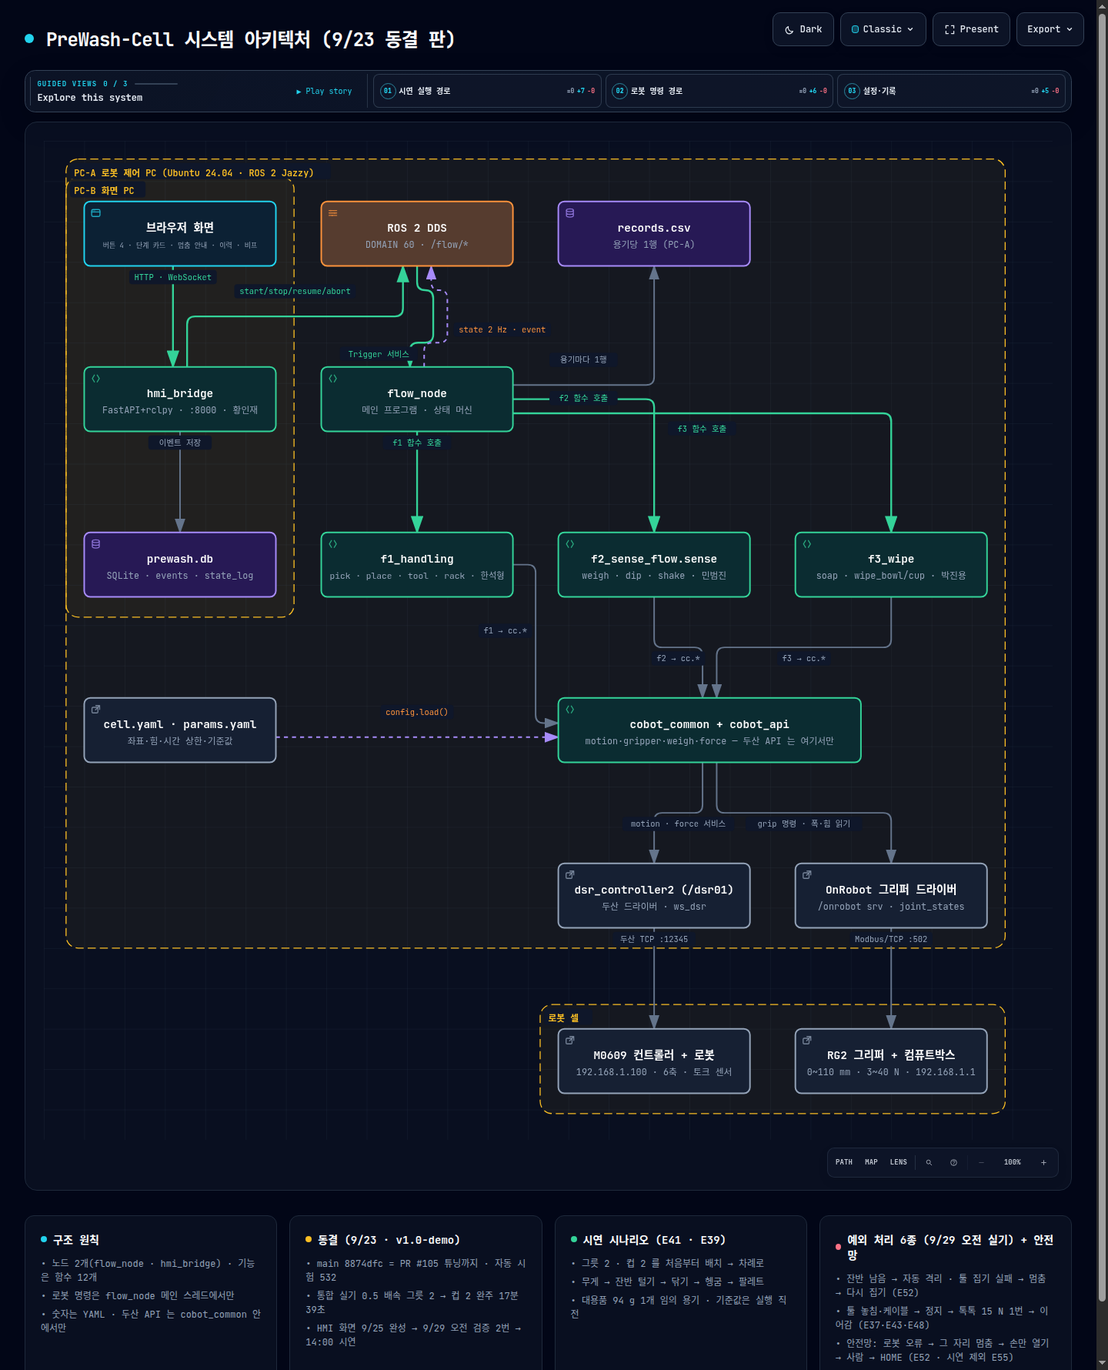
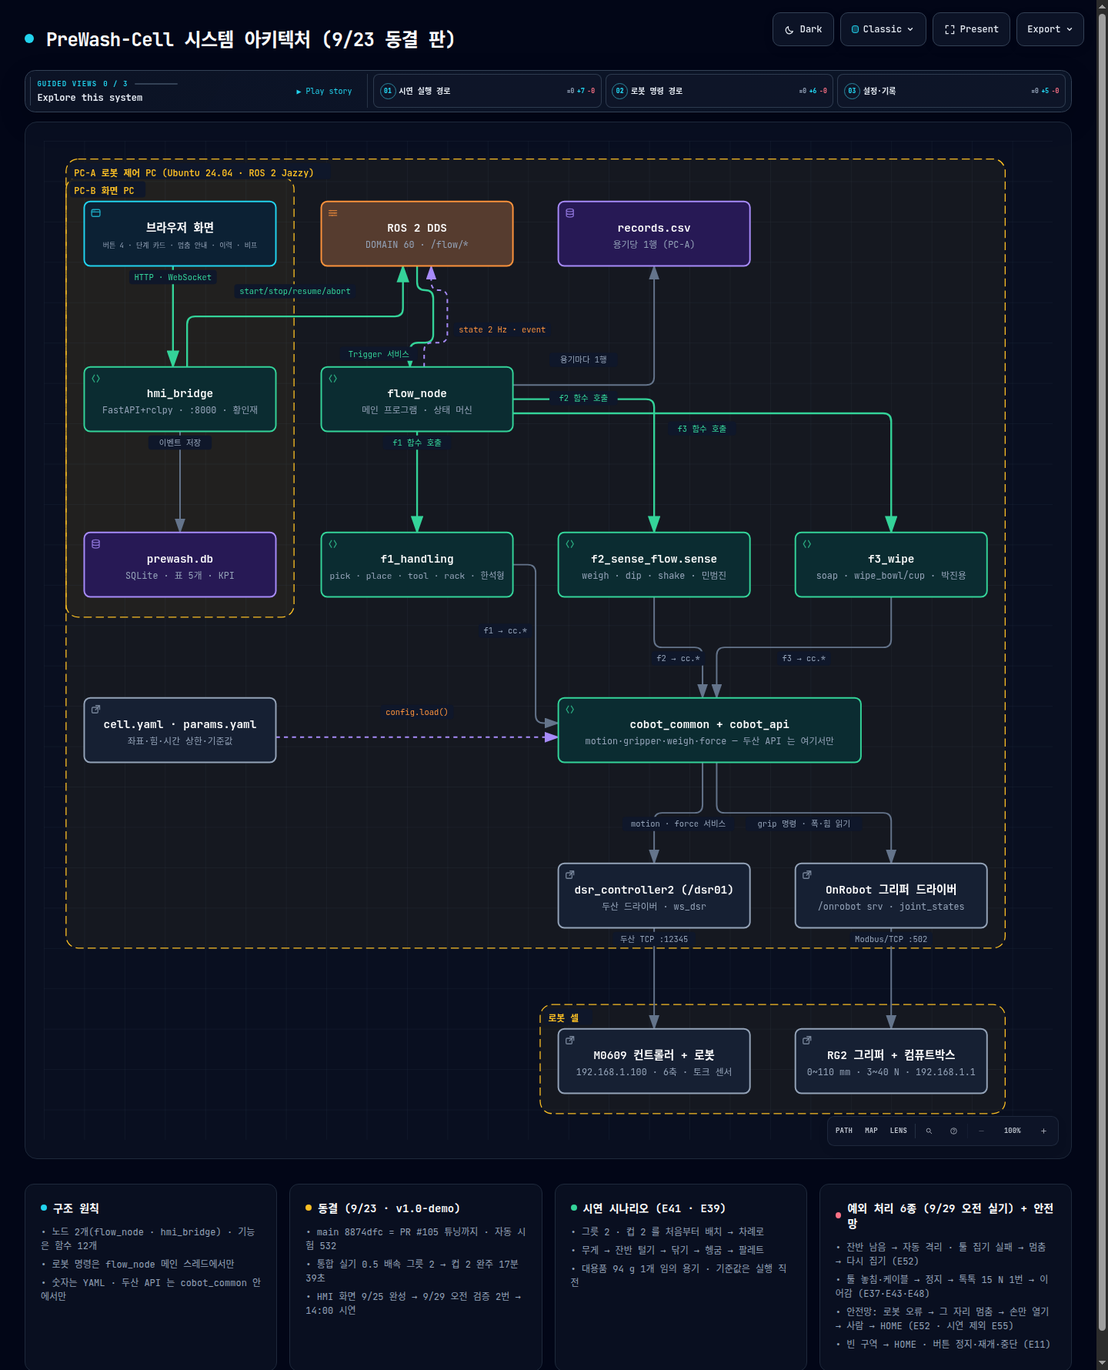
docs: E57(황인재 9/27) — F4-04 기록 DB(표 5개) · F4-05 누적 KPI · 잔반통 한도 50 kg 구현 반영 · SDD §3/§5/§6 · 결과표 AC-7 · 아키텍처 db 노드 · 일정표 v25.5

diff --git a/docs/images/system_architecture_pc.html b/docs/images/system_architecture_pc.html
@@ -5207,8 +5207,8 @@ OTHER DEALINGS IN THE FONT SOFTWARE.
         <text data-detail="context" x="135" y="270" class="t-muted" font-size="9" text-anchor="middle">FastAPI+rclpy · :8000 · 황인재</text>
         </g>
 
-        <g id="node-db" data-node-id="db" data-node-label="prewash.db" tabindex="0" role="button" aria-label="Focus prewash.db, SQLite · events · state_log, PC-B 화면 PC" aria-pressed="false" data-node-kind="database" data-node-sublabel="SQLite · events · state_log" data-node-context="PC-B 화면 PC">
-          <title>prewash.db · SQLite · events · state_log · PC-B 화면 PC</title>
+        <g id="node-db" data-node-id="db" data-node-label="prewash.db" tabindex="0" role="button" aria-label="Focus prewash.db, SQLite · 표 5개 · KPI, PC-B 화면 PC" aria-pressed="false" data-node-kind="database" data-node-sublabel="SQLite · 표 5개 · KPI" data-node-context="PC-B 화면 PC">
+          <title>prewash.db · SQLite · 표 5개 · KPI · PC-B 화면 PC</title>
           <rect x="40" y="388" width="190" height="64" rx="6" class="c-mask"/>
           <rect x="40" y="388" width="190" height="64" rx="6" class="c-database" stroke-width="1.5"/>
           <g aria-hidden="true" data-semantic-sigil="database" class="semantic-sigil s-database" transform="translate(46 394) scale(0.6875)">
@@ -5216,7 +5216,7 @@ OTHER DEALINGS IN THE FONT SOFTWARE.
             <path d="M3 4v8c0 1.1 2.2 2 5 2s5-.9 5-2V4M3 8c0 1.1 2.2 2 5 2s5-.9 5-2"/>
           </g>
           <text data-node-label="" data-detail-anchor="" x="135" y="418" class="t-primary" font-size="11" font-weight="600" text-anchor="middle">prewash.db</text>
-        <text data-detail="context" x="135" y="434" class="t-muted" font-size="9" text-anchor="middle">SQLite · events · state_log</text>
+        <text data-detail="context" x="135" y="434" class="t-muted" font-size="9" text-anchor="middle">SQLite · 표 5개 · KPI</text>
         </g>
 
         <g id="node-dds" data-node-id="dds" data-node-label="ROS 2 DDS" tabindex="0" role="button" aria-label="Focus ROS 2 DDS, DOMAIN 60 · /flow/*, Architecture component" aria-pressed="false" data-node-kind="messagebus" data-node-sublabel="DOMAIN 60 · /flow/*" data-node-context="Architecture component">

diff --git a/tools/gen/patch_20260919_weekend.py b/tools/gen/patch_20260919_weekend.py
@@ -13,7 +13,7 @@ from livesheet import SID, load, timeline
 import gen_todo
 
 ID = 'AH'
-VERSION = 'v25.4'
+VERSION = 'v25.5'
 OUT = 'prewash_일정표_0919s.xlsx'
 def S(*xs): return [tuple(x.split()) for x in xs]          # S('9/20 오전','9/20 오후')
 
@@ -3209,6 +3209,17 @@ EDIT.update({
 HISTORY203 = ['v25.4', '✅ 결정', 'INT-4b', '황인재 9/27 저녁: 헹굼 담금 동작 그대로 · flow 세제 카운터 용기당 1회(E56 마무리) — 화요일 전 열린 결정 없음', '황인재 9/27 저녁', 'H']
 
 
+
+# ---------------------------------------------------------------- 09/27 17:0x 황인재(F4 창 "진행"): E57 F4-04 기록 DB · F4-05 누적 KPI · 잔반통 한도 구현 완료(가짜 검증)
+H0927e = '황인재 9/27(F4 창) · PM 17:0x'
+EDIT.update({
+ 'F4-04':    dict(status='완료', prog='0.9', note_add=H0927e + ': ✅ **E57** SQLite 표 5개(events · runs · pauses · commands · replacements · 브리지를 켠 폴더 prewash.db) · 소모품 사용량 = 마지막 교체 뒤 · CLI hmi_db · 가짜 검증(TC-11 15 · 8001 검증 서버) · pytest f4 42 · node 10 · HMI 브랜치 e9ecb81·b0680a4(PR "열어" 뒤) · 🟡 실제 flow 기록은 9/29'),
+ 'F4-05':    dict(status='완료', prog='0.9', note_add=H0927e + ': ✅ **E57** 누적 KPI 칸(이번 실행/오늘/전체 · 처리량 · 처리율 · 용기당 평균 · 시간당 · 멈춤 · 잔반) · 가짜 검증 ✅ · 🟡 실제 수치는 9/29'),
+ 'INT-4':    dict(note_add=H0927e + ': E57 잔반통 한도 50 kg(hmi.waste_bin_limit_g) → 브리지 /flow/stop → "잔반통 교체" 카드 → 교체 완료 버튼 → 재개(로봇 코드 무변경 · 시연 중 한도 안 닿음) · 소모품 4줄 + 교체 완료 버튼 · 8000 서버는 껐다 켜야 새 코드'),
+})
+HISTORY204 = ['v25.5', '✅ 완료', 'F4-04, F4-05, INT-4', '황인재 9/27(F4 창): E57 — 기록 DB(표 5개) · 누적 KPI · 잔반통 한도 50 kg 구현(F4 · 가짜 검증 ✅ · 실제 flow 기록 9/29 · PR 대기)', '황인재 9/27', 'H']
+
+
 def main(out):
     gen_todo.EASY.update(EASY)
     for _t in DELETE: EDIT.pop(_t, None); MOVE.pop(_t, None)
@@ -3309,7 +3320,7 @@ def main(out):
             ru.rows[k] = n
     # 7) 변경이력
     h = b.sheet('변경이력')
-    for hist in (HISTORY, HISTORY2, HISTORY3, HISTORY4, HISTORY5, HISTORY6, HISTORY7, HISTORY8, HISTORY9, HISTORY10, HISTORY11, HISTORY12, HISTORY13, HISTORY14, HISTORY15, HISTORY16, HISTORY17, HISTORY18, HISTORY19, HISTORY20, HISTORY21, HISTORY22, HISTORY23, HISTORY24, HISTORY25, HISTORY26, HISTORY27, HISTORY28, HISTORY29, HISTORY30, HISTORY31, HISTORY32, HISTORY33, HISTORY34, HISTORY35, HISTORY36, HISTORY37, HISTORY38, HISTORY39, HISTORY40, HISTORY41, HISTORY42, HISTORY43, HISTORY44, HISTORY45, HISTORY46, HISTORY47, HISTORY48, HISTORY49, HISTORY50, HISTORY51, HISTORY52, HISTORY53, HISTORY54, HISTORY55, HISTORY56, HISTORY57, HISTORY58, HISTORY59, HISTORY60, HISTORY61, HISTORY62, HISTORY63, HISTORY64, HISTORY65, HISTORY66, HISTORY67, HISTORY68, HISTORY69, HISTORY70, HISTORY71, HISTORY72, HISTORY73, HISTORY74, HISTORY75, HISTORY76, HISTORY77, HISTORY78, HISTORY79, HISTORY80, HISTORY81, HISTORY82, HISTORY83, HISTORY84, HISTORY85, HISTORY86, HISTORY87, HISTORY88, HISTORY89, HISTORY90, HISTORY91, HISTORY92, HISTORY93, HISTORY94, HISTORY95, HISTORY96, HISTORY97, HISTORY98, HISTORY99, HISTORY100, HISTORY101, HISTORY102, HISTORY103, HISTORY104, HISTORY105, HISTORY106, HISTORY107, HISTORY108, HISTORY109, HISTORY110, HISTORY111, HISTORY112, HISTORY113, HISTORY114, HISTORY115, HISTORY116, HISTORY117, HISTORY118, HISTORY119, HISTORY120, HISTORY121, HISTORY122, HISTORY123, HISTORY124, HISTORY125, HISTORY126, HISTORY127, HISTORY128, HISTORY129, HISTORY130, HISTORY131, HISTORY132, HISTORY133, HISTORY134, HISTORY135, HISTORY136, HISTORY137, HISTORY138, HISTORY139, HISTORY140, HISTORY141, HISTORY142, HISTORY143, HISTORY144, HISTORY145, HISTORY146, HISTORY147, HISTORY148, HISTORY149, HISTORY150, HISTORY151, HISTORY152, HISTORY153, HISTORY154, HISTORY155, HISTORY156, HISTORY157, HISTORY158, HISTORY159, HISTORY160, HISTORY161, HISTORY162, HISTORY163, HISTORY164, HISTORY165, HISTORY166, HISTORY167, HISTORY168, HISTORY169, HISTORY170, HISTORY171, HISTORY172, HISTORY173, HISTORY174, HISTORY175, HISTORY176, HISTORY177, HISTORY178, HISTORY179, HISTORY180, HISTORY181, HISTORY182, HISTORY183, HISTORY184, HISTORY185, HISTORY186, HISTORY187, HISTORY188, HISTORY189, HISTORY190, HISTORY191, HISTORY192, HISTORY193, HISTORY194, HISTORY195, HISTORY196, HISTORY197, HISTORY198, HISTORY199, HISTORY200, HISTORY201, HISTORY202, HISTORY203):
+    for hist in (HISTORY, HISTORY2, HISTORY3, HISTORY4, HISTORY5, HISTORY6, HISTORY7, HISTORY8, HISTORY9, HISTORY10, HISTORY11, HISTORY12, HISTORY13, HISTORY14, HISTORY15, HISTORY16, HISTORY17, HISTORY18, HISTORY19, HISTORY20, HISTORY21, HISTORY22, HISTORY23, HISTORY24, HISTORY25, HISTORY26, HISTORY27, HISTORY28, HISTORY29, HISTORY30, HISTORY31, HISTORY32, HISTORY33, HISTORY34, HISTORY35, HISTORY36, HISTORY37, HISTORY38, HISTORY39, HISTORY40, HISTORY41, HISTORY42, HISTORY43, HISTORY44, HISTORY45, HISTORY46, HISTORY47, HISTORY48, HISTORY49, HISTORY50, HISTORY51, HISTORY52, HISTORY53, HISTORY54, HISTORY55, HISTORY56, HISTORY57, HISTORY58, HISTORY59, HISTORY60, HISTORY61, HISTORY62, HISTORY63, HISTORY64, HISTORY65, HISTORY66, HISTORY67, HISTORY68, HISTORY69, HISTORY70, HISTORY71, HISTORY72, HISTORY73, HISTORY74, HISTORY75, HISTORY76, HISTORY77, HISTORY78, HISTORY79, HISTORY80, HISTORY81, HISTORY82, HISTORY83, HISTORY84, HISTORY85, HISTORY86, HISTORY87, HISTORY88, HISTORY89, HISTORY90, HISTORY91, HISTORY92, HISTORY93, HISTORY94, HISTORY95, HISTORY96, HISTORY97, HISTORY98, HISTORY99, HISTORY100, HISTORY101, HISTORY102, HISTORY103, HISTORY104, HISTORY105, HISTORY106, HISTORY107, HISTORY108, HISTORY109, HISTORY110, HISTORY111, HISTORY112, HISTORY113, HISTORY114, HISTORY115, HISTORY116, HISTORY117, HISTORY118, HISTORY119, HISTORY120, HISTORY121, HISTORY122, HISTORY123, HISTORY124, HISTORY125, HISTORY126, HISTORY127, HISTORY128, HISTORY129, HISTORY130, HISTORY131, HISTORY132, HISTORY133, HISTORY134, HISTORY135, HISTORY136, HISTORY137, HISTORY138, HISTORY139, HISTORY140, HISTORY141, HISTORY142, HISTORY143, HISTORY144, HISTORY145, HISTORY146, HISTORY147, HISTORY148, HISTORY149, HISTORY150, HISTORY151, HISTORY152, HISTORY153, HISTORY154, HISTORY155, HISTORY156, HISTORY157, HISTORY158, HISTORY159, HISTORY160, HISTORY161, HISTORY162, HISTORY163, HISTORY164, HISTORY165, HISTORY166, HISTORY167, HISTORY168, HISTORY169, HISTORY170, HISTORY171, HISTORY172, HISTORY173, HISTORY174, HISTORY175, HISTORY176, HISTORY177, HISTORY178, HISTORY179, HISTORY180, HISTORY181, HISTORY182, HISTORY183, HISTORY184, HISTORY185, HISTORY186, HISTORY187, HISTORY188, HISTORY189, HISTORY190, HISTORY191, HISTORY192, HISTORY193, HISTORY194, HISTORY195, HISTORY196, HISTORY197, HISTORY198, HISTORY199, HISTORY200, HISTORY201, HISTORY202, HISTORY203, HISTORY204):
         if not has(h, 'A', hist[0]):
             k = h.first_empty(); n = h.rows[k - 1].clone()
             for c, v in zip('ABCDEF', hist): n.set(c, v)

diff --git a/docs/03_설계_SDD.md b/docs/03_설계_SDD.md
@@ -52,7 +52,7 @@ PC-A ↔ 컨트롤러는 두산 전용 TCP(DDS 아님). PC-A ↔ PC-B는 ROS 2 D
 | `/dsr01/joint_states` | `sensor_msgs/msg/JointState` | dsr_controller2 → 모니터링 | PC-A |
 | dsr_controller2 ↔ 컨트롤러 | 두산 전용 TCP, 포트 12345 | | PC-A ↔ 컨트롤러 |
 | 브라우저 ↔ hmi_bridge | HTTP `GET /` · `POST /api/start|stop|resume|abort` · `GET /api/state` · `GET /api/history` · WS `/ws/state` (JSON) | | PC-B 내부 또는 LAN |
-| hmi_bridge → prewash.db | SQLite `events`(FlowEvent 필드 그대로) · `state_log` | | PC-B 내부 |
+| hmi_bridge → prewash.db | SQLite 🔄 E57(9/27) 표 5개: `events`(용기 1줄 · 실행 번호 · 버린 잔반 g) · `runs` · `pauses`(원인 · 풀린 방법) · `commands` · `replacements`(소모품 교체) | | PC-B 내부 |
 
 `/dsr01/*`·`/onrobot/*`의 정확한 이름·필드는 [두산 ROS 2 매뉴얼(jazzy)](https://doosanrobotics.github.io/doosan-robotics-ros-manual/jazzy/services/motion_services.html)과 설치본으로 확인한다. 우리 코드는 `cobot_common`을 통해서만 부르므로 이름이 달라도 한 곳만 고친다.
 
@@ -242,7 +242,7 @@ sequenceDiagram
 ### 4.2 데이터 사전
 - 기능 함수·메시지: IRD §3~7 (정본 `src/cobot_api/cobot_api/contracts.py` · `docs/interfaces/*.msg`)
 - `records.csv`(PC-A) 열: `ts, kind, zone_id, attempts, rack_slot, weight_before_g, weight_after_g, leftover_rounds, seat_offset_mm, wipe_duration_s, force_log_path, result, code, duration_s`
-- `prewash.db`(PC-B, SQLite): 표 `events`(FlowEvent 필드 + `id`, `received_at`) · `state_log`(step, kind, zone_id, stamp, 1 Hz 샘플)
+- `prewash.db`(PC-B, SQLite · 브리지를 켠 폴더): 🔄 E57(9/27 · F4-04) 표 5개 — `events`(용기 1줄 · 실행 번호 · 버린 잔반 g) · `runs` · `pauses`(원인 · 풀린 방법) · `commands` · `replacements`. 소모품 사용량 = 마지막 교체 뒤 events. CLI `ros2 run f4_hmi hmi_db tables|dump|usage|kpi|replace`
 - 힘 로그 `force_YYYYMMDD_HHMMSS.csv`: `t, fx, fy, fz, target`
 
 ### 4.3 설정 파일 스키마 — `config/cell.yaml`(공용) + `config/params.yaml`(기능별 절)
@@ -305,7 +305,7 @@ flow:                                                               # ── flo
   consumables: {sponge_max_uses: 20, soap_max_dips: 60}
   use_mock: []                       # 가짜 모듈로 바꿀 기능. 예: [f1, f3] · 전부 mock 이면 드라이버 없이 돈다 (런치 인자 use_mock 이 덮어씀)
   mock: {fail_on: []}                # 실패 주입. 예: ["place:SEAT_FAIL", "rack_place:RACK_JAM"]
-hmi: {port: 8000, state_rate_hz: 2, disconnect_after_s: 2.0, db_path: prewash.db}   # ── hmi 절 (황인재) ──
+hmi: {port: 8000, state_rate_hz: 2, disconnect_after_s: 2.0, db_path: prewash.db, waste_bin_limit_g: 50000}   # ── hmi 절 (황인재) · E57 잔반통 한도 50 kg ──
 ```
 좌표·힘·횟수는 전부 여기에 둔다. 코드에 숫자를 쓰지 않는다. 경로는 항상 패키지 기준 상대경로.
 
@@ -444,7 +444,7 @@ return EMPTY_ZONE (attempts = 슬롯 수)
 
 ### 5.5 hmi_bridge (황인재) — 시스템 모니터
 - 구조: FastAPI(uvicorn) + rclpy 스레드. rclpy는 별도 스레드에서 `spin`, `/flow/*` 서비스 호출은 요청 스레드를 막지 않게 실행(HMI는 두산 API를 쓰지 않으므로 TS-01과 무관). WebSocket이 `/flow/state`·`/flow/event`를 브라우저에 밀어준다.
-- SQLite(`db.py`): `/flow/event` 수신마다 `events` INSERT, 1 Hz로 `state_log` INSERT. `GET /api/history`가 최근 N건 반환.
+- SQLite(`db.py`): `/flow/event` 수신마다 `events` INSERT · 실행 시작/끝 `runs` · 멈춤 `pauses`(원인 · 풀린 방법) · 버튼 `commands` · 교체 완료 `replacements`(🔄 E57 9/27). `GET /api/history`가 최근 N건 반환. **잔반통 한도**: 마지막 교체 뒤 버린 잔반 합 ≥ `hmi.waste_bin_limit_g`(50 kg) 이면 브리지가 `/flow/stop` → "잔반통 교체" 카드 → 교체 완료 버튼 → 재개(로봇 코드 무변경).
 - 화면 구성(강의 HMI 요소 반영):
   | 영역 | 내용 |
   |---|---|
@@ -475,7 +475,9 @@ return EMPTY_ZONE (attempts = 슬롯 수)
 | 이력 | 끝난 용기마다 한 줄(완료 · 격리 · 오류 · 건너뜀 · 원인 · 시도 수) · 문제만 보기 필터. 🟡 케이블 이상으로 중단한 용기는 이벤트 코드가 ROBOT_ERROR 라 '로봇 오류'로 적힘(사유를 이벤트에 실으려면 flow 변경 · 시연 뒤) |
 | 소리 | 넛지(톡톡) 재개 요청 감지 비프(#93) · 멈춤이 풀리면(PAUSED → 운전) 짧은 두 음 · 🟡 소리는 9/29 준비 때 귀로 확인 |
 | 로봇 없이 확인 | `hmi_bridge` + 가짜 flow `fake_state_pub`(대본 8종: normal · paused · isolate · error · empty_zone · 🆕 tool_lost · leftover_remain · cable — 9/29 예외 ③④① 화면 연습) 또는 ros bag 재생(`_bags/0923_full_0.5`) · 한 번에 하나만(같은 토픽) |
-| 미구현(시연 뒤) | F4-04 SQLite 이력 · F4-05 KPI · 격리 구역 비움 확인 버튼 · 노션 화면 gif(NOTE-02) |
+| 누적 KPI(F4-05 · 🔄 E57 9/27) | 이번 실행 / 오늘 / 전체 — 처리량 · 처리율 · 용기당 평균 시간 · 시간당 · 멈춤 수 · 잔반 g. 근거는 `prewash.db`(F4-04). 가짜 검증 ✅ · 🟡 실제 flow 기록은 9/29 |
+| 잔반통 교체(🔄 E57) | 마지막 교체 뒤 버린 잔반 합 ≥ 50 kg → 브리지가 정지 → "잔반통 교체" 카드 → **교체 완료** 버튼 → 재개. 소모품 4줄(수세미 · 솔 · 세제 · 잔반통)마다 교체 완료 버튼 · 시연 중엔 한도에 닿지 않음 |
+| 미구현(시연 뒤) | 격리 구역 비움 확인 버튼 · 노션 화면 gif(NOTE-02) — F4-04 · F4-05 는 9/27 구현(E57) |
 
 ## 7. 예외·오류 처리
 | 코드 | 발생 | 처리 | 표시 |

diff --git a/docs/meetings/20260919_결정기록_DSN-03.md b/docs/meetings/20260919_결정기록_DSN-03.md
@@ -122,3 +122,4 @@
 | E54 | **로봇 오류 2단의 두 번째 신호는 화면(web) 재개 버튼만 — 톡(넛지) 아님** (9/27 01:2x · 황인재 · PM 창) — 첫 신호(톡 1번 또는 재개 → 그리퍼만 열기)는 그대로. 사람이 툴·용기를 받아 치운 뒤 **황인재가 화면 재개 버튼** → 곧게 위로 → HOME. tune2 `_robot_error_pause` 두 번째 `wait_resume(allow_nudge=False)` + 안내 문구 + HMI 2단 안내 + 대본 ⑩ (F4 · 예외 경로라 E53 범위 안) | 근거: 톡으로 주면 손이 로봇에 닿은 채로 팔이 위로 움직이기 시작한다(감지 → STANDBY 대기 → 바로 후퇴). 받는 사람(한석형)이 물러난 뒤 떨어진 자리에서 버튼을 누르는 것이 안전. PM 9/27 diff 검토 지적. **반영(F4 9/27)**: tune2 e960a09 · HMI 9151817 · 대본 8aa1b05 · 넛지 감시는 첫 대기에서만 · `_go_home_or_wait` 의 HOME 재시도 대기도 버튼만(같은 상황) · 자동 시험 186 passed(f2) |
 | E55 | **⑩ 로봇 오류 2단 — 화요일 시험·발표에서 제외 · 코드는 안전망으로 유지** (9/27 오후 · 황인재 · F4 창 → PM 16:1x) — 설계한 예외가 아니라 컨트롤러 오류를 받는 그물이고 유발 시험 부담이 크다. E52·E54 2단 신호 코드는 그대로(없으면 오류 뒤 쥔 용기를 다음 집기에서 떨어뜨림 · 자동 시험 6개 + 보강 55fe450 그리퍼 폭 판정). HMI 는 붉은 별도 카드를 없애고 일반 멈춤 카드(주황 `멈춤 — 로봇 확인` · 중단 비활성 유지). 2회차 = 예외 6개(①②③④⑤⑨) ≈13분 · 끝은 `plan 완료 — 그릇 1 · 컵 1 · 격리 2`. 되돌림 커밋 30fc418 은 두되 저녁에 얹지 않음 | 근거: 시연·발표는 설계한 예외만(E28 · E53). 안전망은 남겨야 사고 뒤 처리가 안전하다 |
 | E56 | **소모품·세제 카운트** (9/27 오후 · 황인재 · F4 창) — 수세미·솔 교체 주기 **100회**(같은 값 · 임의) `flow.consumables.sponge_max_uses 100`(tune2 e1133f4 · HMI 41304aa). HMI 소모품 칸 = 수세미(그릇 완료 수) · 솔(컵 완료 수) · 세제 · 헹굼 담금 행 제거. 세제 카운트 = **세제 묻힌 용기 수(그릇+컵) · 한도 60개**(HMI dc41309 · flow 의 담금 3회/용기 카운터는 화면에서 안 씀 · flow 내부 경고는 담금 60회 = 용기 20개에 로그 한 번 · 멈추지 않음). **flow 도 용기당 1회**(9/27 저녁 확정 · tune2 a30fdb2 `soap_dips += 1` · process_one 의 카운터 한 줄 · 동작 변경 없음 · PM diff 확인) | 근거: 화면 숫자는 사람이 세는 단위(용기 수)와 같아야 한다. 참고(F4 9/27): HMI 멈춤 안내 전부 짧게(제목 + 할 일 2~3줄) · HTML no-store(브라우저 캐시로 옛 화면이 보이던 문제). **헹굼 담금 동작(2회 · 60 mm)은 그대로**(9/27 저녁 확정 · 흐르는 물에 담그는 전제 · 기본 흐름 E53 유지) |
+| E57 | **F4-04 기록 DB · F4-05 누적 KPI · 잔반통 한도 — 진행(구현 완료)** (9/27 · 황인재 · F4 창 → PM 17:0x · HMI 브랜치 e9ecb81 · b0680a4 · PR 은 "열어" 뒤) — `prewash.db`(브리지를 켠 폴더) 표 5개: events(용기 1줄 · 실행 번호 · 버린 잔반 g) · runs · pauses(원인 · 풀린 방법) · commands · replacements. 소모품 사용량 = 마지막 교체 뒤 events. 화면: 소모품 4줄 + **교체 완료 버튼** · 누적 KPI 칸(이번 실행 / 오늘 / 전체 · 처리량 · 처리율 · 용기당 평균 · 시간당 · 멈춤 · 잔반) · 이력 각주. **잔반통 한도 50 kg**(`hmi.waste_bin_limit_g`) → 브리지가 `/flow/stop` → "잔반통 교체" 카드 → 교체 완료 버튼 → 재개(로봇 코드 무변경). 헹굼 물은 세지 않음 · 힘 로그 파일명·출처는 기록 안 함. CLI `ros2 run f4_hmi hmi_db tables\|dump\|usage\|kpi\|replace` | 검증: 포트 8001 검증 서버 + 가짜 normal(한도 300 g) → 300 g 에서 stop → 교체 → 재개 → DONE · 표 5개 채워짐(TC-11 15) · pytest f4 42 · node 10. 🟡 실제 flow 기록은 9/29. 시연 한도 50 kg 이라 시연 중 잔반통 정지는 나지 않는다. 주의: 8000 화면 서버는 껐다 켜야 새 코드가 산다 |

diff --git a/docs/04_결과_결과표.md b/docs/04_결과_결과표.md
@@ -21,7 +21,7 @@
 | AC-4 안정성(힘) | 닦기 힘 목표 유지 · 힘 로그 · 상한 초과 후퇴 | ✅ 힘 로그 기록(CSV) · 닦기 \|Fz\| 그릇 평균 2.64 / 2.06 N · 최대 6.91 / 6.34 N · 컵 평균 1.82 · 최대 3.39 N · 상한 초과 시 `ForceLimitError` → 후퇴(코드 · 자동 시험) · 컵 회전 속도 사전검사(#104) | 9/23 §21 · PR #104 |
 | AC-5 정확성(적재) | 적재 ≥ 90 % · 낙하 0 · 칸·각도 | ✅ 팔레트 B1·B2·C1·C2 **12/12** · 낙하 0 · 컵은 뒤집어 적재(E38) · E44 로 곧게 놓기 + 15 mm 완충 | 9/23 §21 |
 | AC-6 지속성(실패 주입) | 빈 구역 · 잔반 과다 · 툴 미배치 · 팔레트 걸림 각 1회 | 🟡 **9/29 오전 예외 6개 + 빈 시작**(E51 · E52 · E55): 케이블 톡톡 재개 · 정지→재개 · 툴 놓침→넛지→재PICK · **잔반 남음 → 자동 격리**(E52) · **툴 집기 실패 → 멈춤 → 다시 집기**(E52) · 정지→중단 격리(E11 · E52 정리 통일) · 빈 구역 SKIPPED. 로봇 오류 2단은 시험·발표 제외(E55 · 코드는 안전망). 팔레트 걸림은 E44 로 판정 없음(시연 코드에서 미발생) · 단위 실기: 케이블 자동 복구 1회(#102) · 툴 놓침 rig(#99) · 격리 J1 경로(#90) | 결정 E42 E44 E48 E50 E51 |
-| AC-7 입출력 이해도 | HMI 단계·수량·소모품·오류 표시 · 기록 누락 0 | ✅ 화면 9/25 완성(UT-F4 TC-11 브라우저 12항목 · 소리 🟡) · 용기별 `records.csv` 1행 · `/flow/event` 4/4 · 🟡 실제 flow 연결은 9/29 준비 10분 | 9/25 UT-F4 · 9/23 bag |
+| AC-7 입출력 이해도 | HMI 단계·수량·소모품·오류 표시 · 기록 누락 0 | ✅ 화면 9/25 완성(UT-F4 TC-11 브라우저 12항목 · 소리 🟡) · 9/27 기록 DB 표 5개 · 누적 KPI · 잔반통 한도(E57 · 가짜 검증 TC-11 15 · 실제 flow 기록 9/29) · 용기별 `records.csv` 1행 · `/flow/event` 4/4 · 🟡 실제 flow 연결은 9/29 준비 10분 | 9/25 UT-F4 · 9/23 bag |
 
 ## 3. 사이클 타임 (flow_node · 그릇 2 → 컵 2 · 초)
 | 단계 | 그릇 1 | 그릇 2 | 컵 1 | 컵 2 | 비고 |

diff --git a/docs/00_현재상황_리마인드.md b/docs/00_현재상황_리마인드.md
@@ -161,6 +161,7 @@
 | E54 | **로봇 오류 2단의 두 번째 신호 = 화면 재개 버튼만(톡 X)**(황인재 9/27 01:2x) — 받는 사람이 물러난 뒤 황인재가 버튼 · 반영 tune2 e960a09 · HMI 9151817 · 대본 8aa1b05 · HOME 재시도 대기도 버튼만 |
 | E55 | **⑩ 로봇 오류 2단은 화요일 시험·발표 제외 · 코드는 안전망 유지**(황인재 9/27 오후) — HMI 붉은 카드 → 주황 일반 멈춤 카드 · 2회차 예외 6개(①②③④⑤⑨) ≈13분 |
 | E56 | **소모품 100회(수세미·솔) · 세제 = 세제 묻힌 용기 수 · 한도 60**(황인재 9/27 오후 · tune2 e1133f4 · HMI 41304aa · dc41309) · flow 세제 카운터도 용기당 1회(a30fdb2 · 동작 무관) · 헹굼 담금 동작은 **그대로**(9/27 저녁 확정 · E53 유지) |
+| E57 | **F4-04 기록 DB(표 5개) · F4-05 누적 KPI · 잔반통 한도 50 kg(브리지 stop → 교체 카드 → 재개) 구현**(황인재 9/27 진행 · HMI e9ecb81 · b0680a4 · 가짜 검증 ✅ · 실제 flow 기록 9/29) — 로봇 코드 무변경 |
 | E47 | **떨림 상한 50 → 80 g**(황인재 9/24) — main 반영(PM) · 9/29 ④ 에서 확인(민범진) |
 | E48 | **넛지 힘 15 N 통일 · 횟수 1번**(케이블·툴 놓침 · 황인재 9/24 · 22:1x 2번 치기 철회) — 힘은 설정(PM) · tune2 `nudge_taps 1`(taps 코드는 남김 · 2 로 바꾸면 두 번) |
 | E39-종결 | **대용품 94 g 1개 · 임의 용기**(황인재 9/24) — 기준 50 유지 · 9/29 오전 무게 확인(각 3회 ≥ 65 g) 뒤 확정 |
